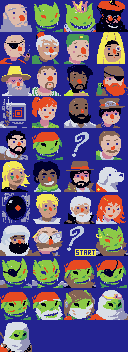
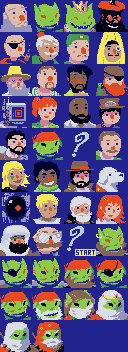
customize goblin version of atomics quest

Changed region(s): [[0.25, 0.9062, 0.5, 1.0]]

diff --git a/source/skyland/scene/crewStatsScene.cpp b/source/skyland/scene/crewStatsScene.cpp
@@ -248,7 +248,7 @@ static constexpr u8 human_icons[] = {5,  1,  6,  7,  8,  9,  10, 11, 12, 14, 15,
                                      16, 17, 20, 21, 22, 23, 19, 26, 27, 28};
 
 
-static constexpr u8 goblin_icons[] = {18, 35, 36, 37, 38, 39, 41, 19};
+static constexpr u8 goblin_icons[] = {18, 35, 36, 37, 38, 39, 41, 42, 19};
 
 
 

diff --git a/source/data/character_art.h b/source/data/character_art.h
@@ -9,7 +9,7 @@
 //	+ 704 tiles Metatiled by 4x4 not compressed
 //	Total size: 32 + 22528 = 22560
 //
-//	Time-stamp: 2024-12-16, 15:54:57
+//	Time-stamp: 2024-12-17, 12:45:10
 //	Exported by Cearn's GBA Image Transmogrifier, v0.9.2
 //	( http://www.coranac.com/projects/#grit )
 //
